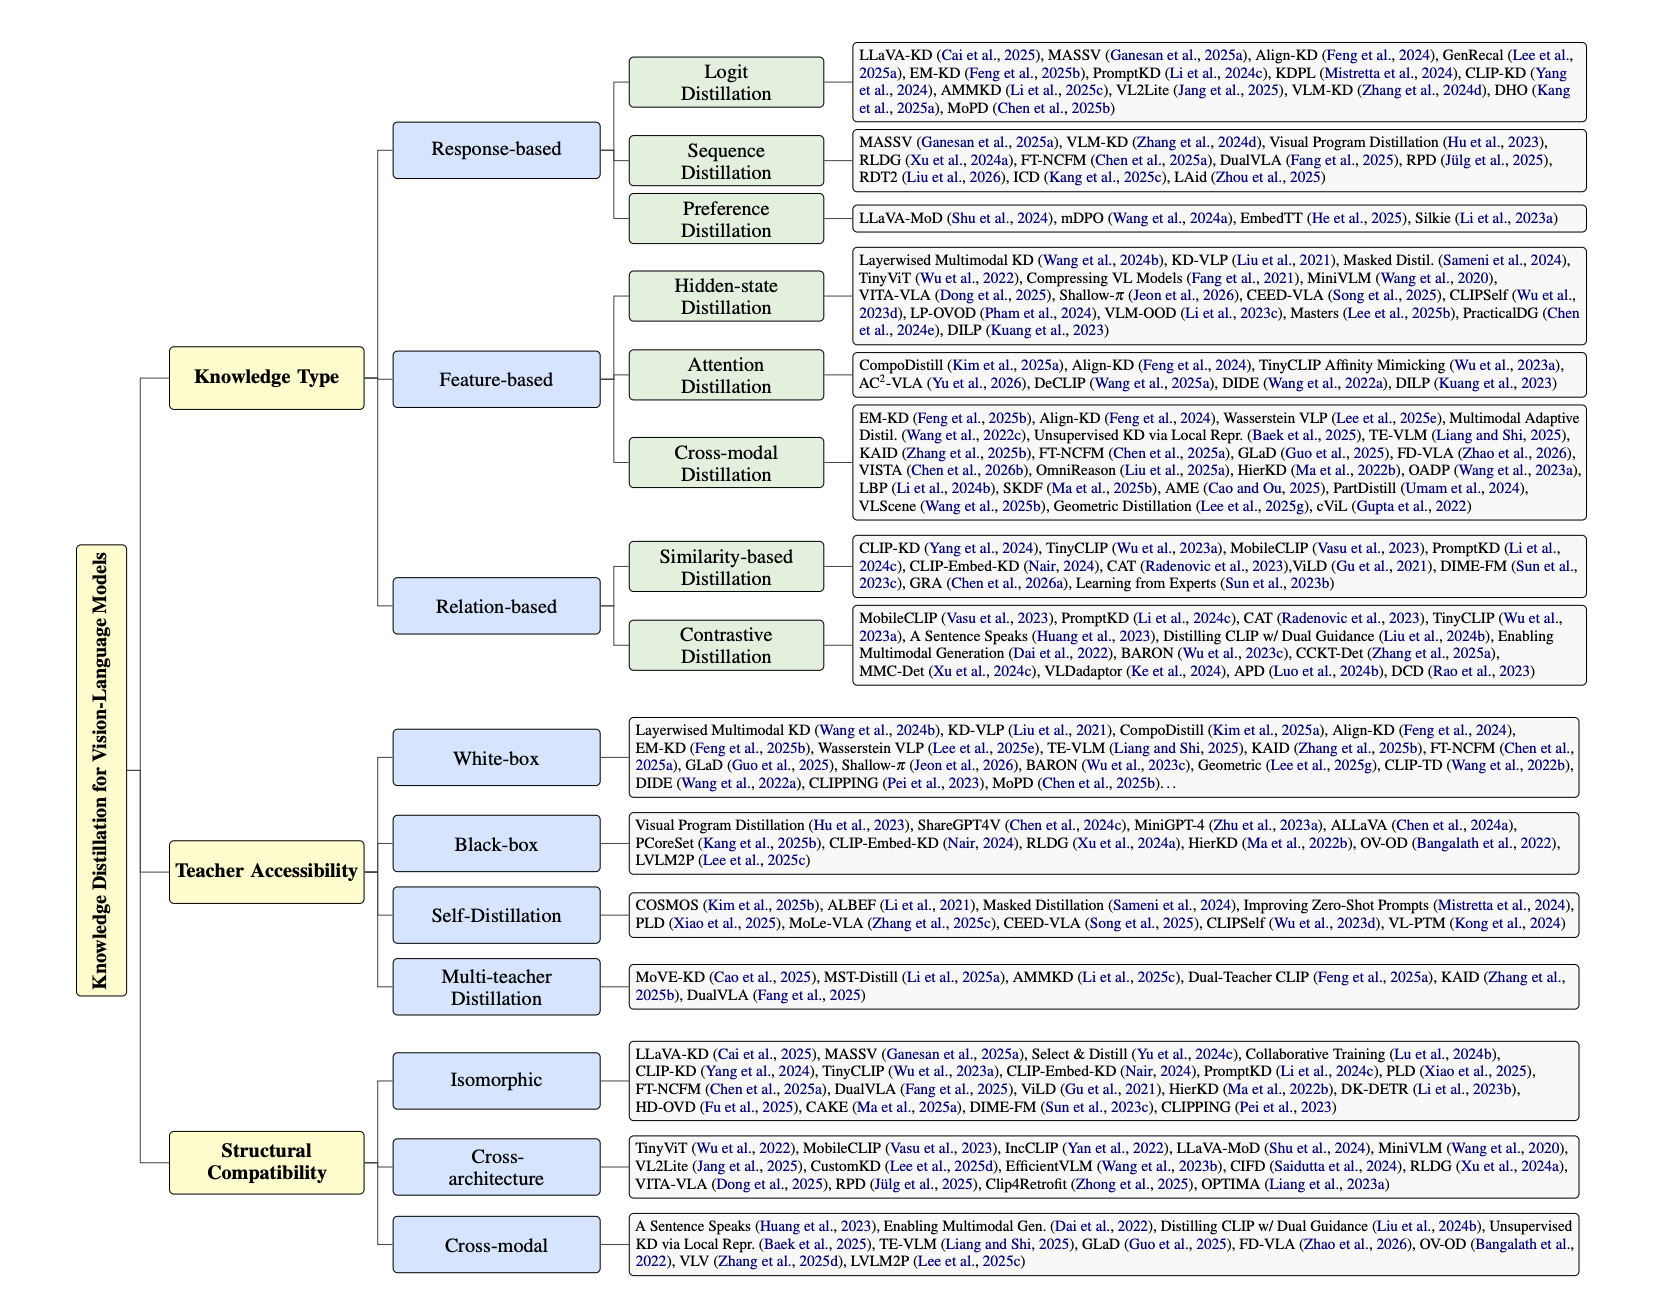
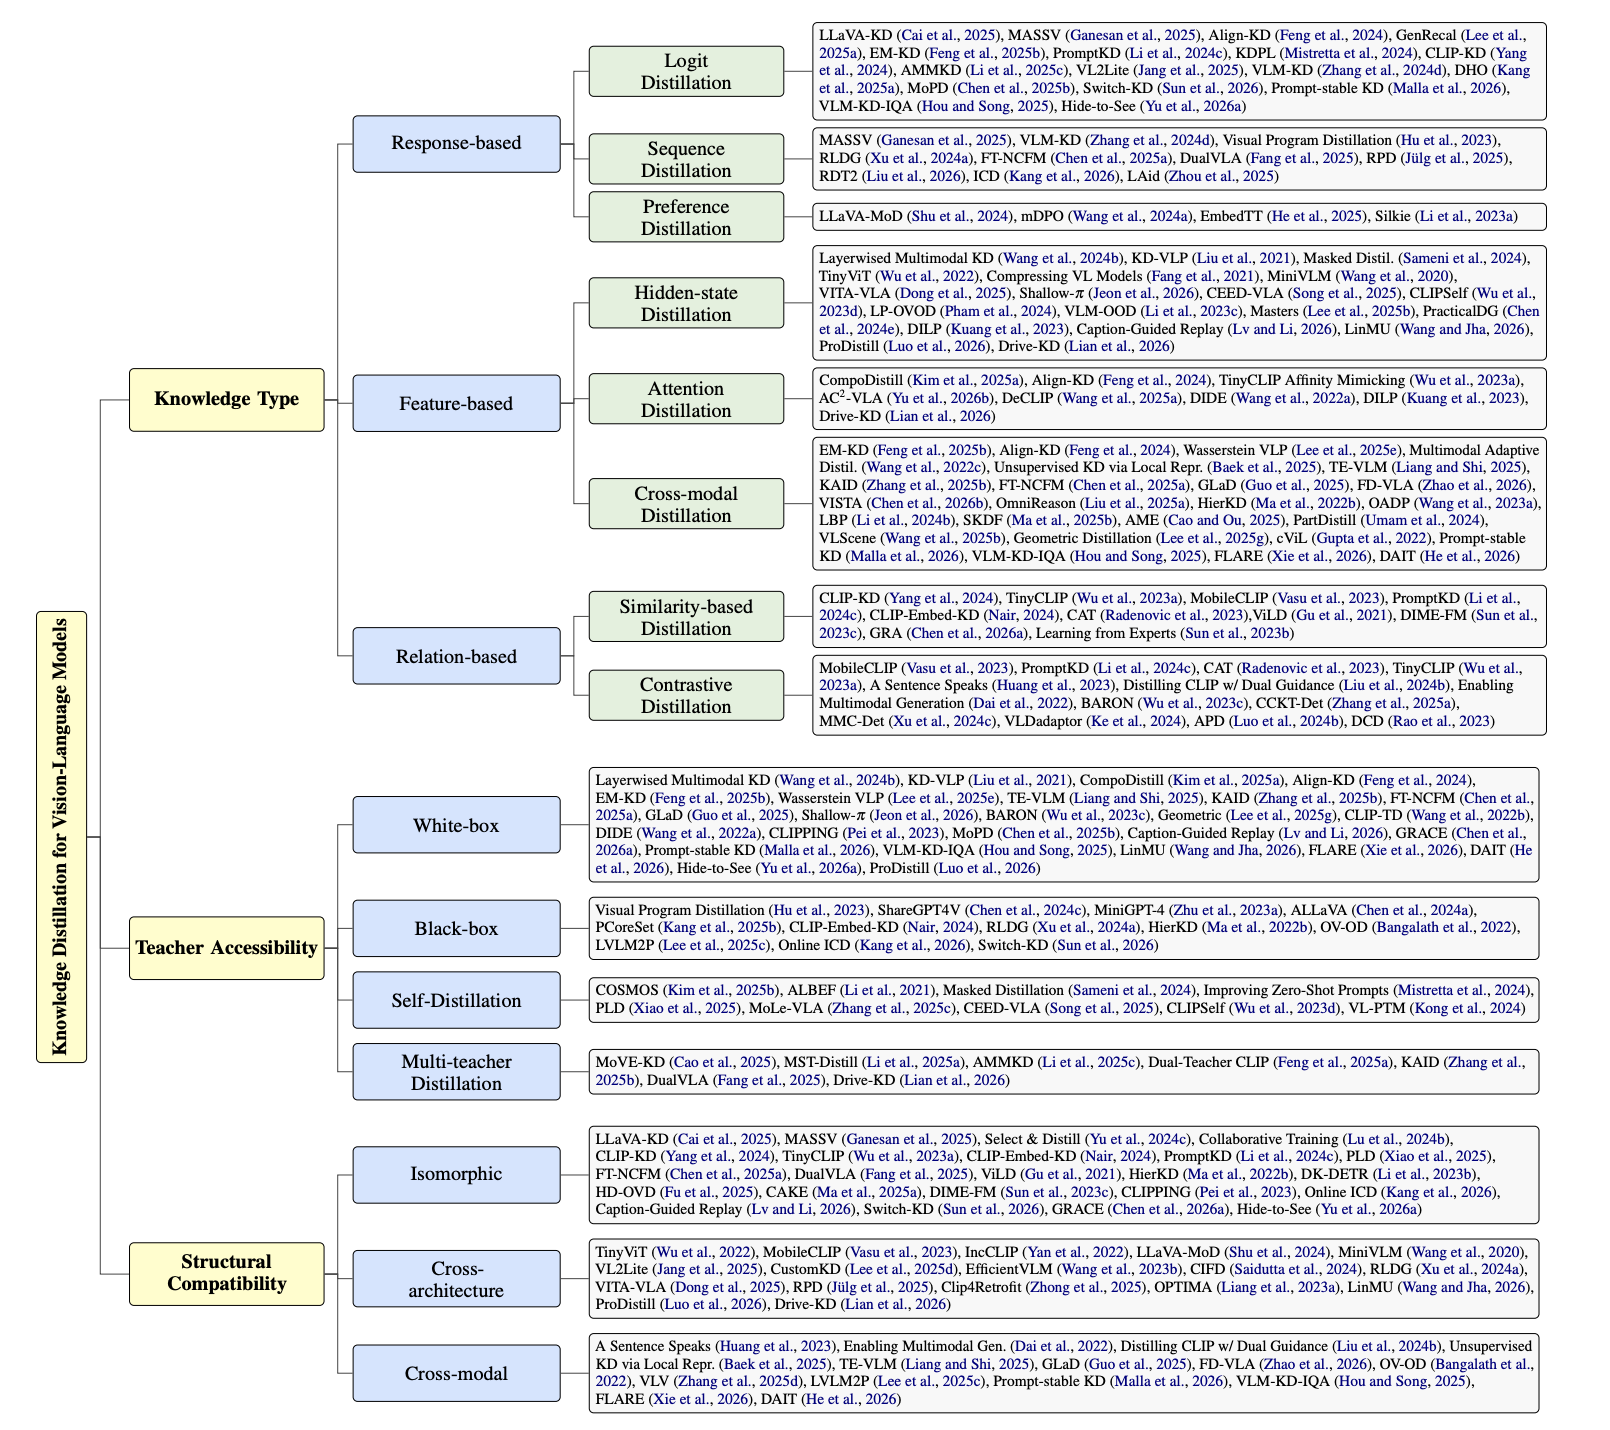
Update

diff --git a/README.md b/README.md
@@ -44,6 +44,10 @@ Below is the taxonomy summarizing the landscape of knowledge distillation resear
 * VL2Lite: Task-Specific Knowledge Distillation from Large Vision-Language Models to Lightweight Networks [[Paper]](https://openaccess.thecvf.com/content/CVPR2025/papers/Jang_VL2Lite_Task-Specific_Knowledge_Distillation_from_Large_Vision-Language_Models_to_Lightweight_CVPR_2025_paper.pdf) ![](https://img.shields.io/badge/year-2025-red)
 * VLM-KD: Knowledge Distillation from VLM for Long-Tail Visual Recognition [[Paper]](https://arxiv.org/abs/2408.16930) ![](https://img.shields.io/badge/year-2024-red)
 * VLsI: Verbalized Layers-to-Interactions from Large to Small Vision Language Models [[Paper]](https://arxiv.org/abs/2412.01822) ![](https://img.shields.io/badge/year-2025-red)
+* Distilling Knowledge from Caption-Guided Replay for VLM-Based Continual Learning [[Paper]](https://openreview.net/forum?id=HN18kuyf4o) ![](https://img.shields.io/badge/year-2026-red)
+* Prompt-stable knowledge distillation of vision-language models for efficient waste classification in material recovery facilities [[Paper]](https://www.sciencedirect.com/science/article/pii/S0921344926001096) ![](https://img.shields.io/badge/year-2026-red)
+* Visual-Language Model Knowledge Distillation Method for Image Quality Assessment [[Paper]](https://arxiv.org/abs/2507.15680) ![](https://img.shields.io/badge/year-2025-red)
+* Hide to See: Reasoning-prefix Masking for Visual-anchored Thinking in VLM Distillation [[Paper]](https://arxiv.org/abs/2605.11651) ![](https://img.shields.io/badge/year-2026-red)
 
 **Sequence Distillation**
 
@@ -56,6 +60,7 @@ Below is the taxonomy summarizing the landscape of knowledge distillation resear
 * DualVLA: Building a Generalizable Embodied Agent via Partial Decoupling of Reasoning and Action [[Paper]](https://arxiv.org/abs/2511.22134) ![](https://img.shields.io/badge/year-2025-red)
 * Refined Policy Distillation: From VLA Generalists to RL Experts [[Paper]](https://arxiv.org/abs/2503.05833) ![](https://img.shields.io/badge/year-2025-red)
 * RDT2: Exploring the Scaling Limit of UMI Data Towards Zero-Shot Cross-Embodiment Generalization [[Paper]](https://arxiv.org/abs/2602.03310) ![](https://img.shields.io/badge/year-2026-red)
+* Online In-Context Distillation for Low-Resource Vision Language Models [[Paper]](https://arxiv.org/abs/2510.18117) ![](https://img.shields.io/badge/year-2025-red)
 
 **Preference Distillation**
 
@@ -81,6 +86,9 @@ Below is the taxonomy summarizing the landscape of knowledge distillation resear
 * CEED-VLA: Consistency Vision-Language-Action Model with Early-Exit Decoding [[Paper]](https://arxiv.org/abs/2506.13725) ![](https://img.shields.io/badge/year-2025-red)
 * CLIPSelf: Vision Transformer Distills Itself for Open-Vocabulary Dense Prediction [[Paper]](https://arxiv.org/abs/2310.01403) ![](https://img.shields.io/badge/year-2023-red)
 * LP-OVOD: Open-Vocabulary Object Detection by Linear Probing [[Paper]](https://arxiv.org/abs/2310.17109) ![](https://img.shields.io/badge/year-2024-red)
+* LinMU: Multimodal Understanding Made Linear [[Paper]](https://arxiv.org/pdf/2601.01322) ![](https://img.shields.io/badge/year-2026-red)
+* DAIT: Distillation from Vision-Language Models to Lightweight Classifiers with Adaptive Intermediate Teacher Transfer [[Paper]](https://arxiv.org/pdf/2603.15166) ![](https://img.shields.io/badge/year-2026-red)
+* Prodistill: A Progressive Prompting Framework for Fine-Grained VLM Distillation [[Paper]](https://ieeexplore.ieee.org/document/11461281/) ![](https://img.shields.io/badge/year-2026-red)
 
 **Attention Distillation**
 
@@ -89,6 +97,7 @@ Below is the taxonomy summarizing the landscape of knowledge distillation resear
 * TinyCLIP: CLIP Distillation via Affinity Mimicking and Weight Inheritance [[Paper]](https://arxiv.org/abs/2309.12314) ![](https://img.shields.io/badge/year-2023-red)
 * AC^2-VLA: Action-Context-Aware Adaptive Computation in Vision-Language-Action Models for Efficient Robotic Manipulation [[Paper]](https://arxiv.org/abs/2601.19634) ![](https://img.shields.io/badge/year-2026-red)
 * DeCLIP: Decoupled Learning for Open-Vocabulary Dense Perception [[Paper]](https://arxiv.org/abs/2505.04410) ![](https://img.shields.io/badge/year-2025-red)
+* Drive-KD: Multi-Teacher Distillation for VLMs in Autonomous Driving [[Paper]](https://arxiv.org/abs/2601.21288) ![](https://img.shields.io/badge/year-2026-red)
 
 **Cross-modal Feature Distillation**
 
@@ -110,6 +119,7 @@ Below is the taxonomy summarizing the landscape of knowledge distillation resear
 * Object-Aware Distillation Pyramid for Open-Vocabulary Object Detection [[Paper]](https://arxiv.org/abs/2303.05892) ![](https://img.shields.io/badge/year-2023-red)
 * Learning Background Prompts to Discover Implicit Knowledge for Open Vocabulary Object Detection [[Paper]](https://arxiv.org/abs/2406.00510) ![](https://img.shields.io/badge/year-2024-red)
 * SKDF: A Simple Knowledge Distillation Framework for Distilling Open-Vocabulary Knowledge to Open-World Object Detector [[Paper]](https://arxiv.org/abs/2312.08653) ![](https://img.shields.io/badge/year-2024-red)
+* FLARE: Learning Future-Aware Latent Representations from Vision-Language Models for Autonomous Driving [[Paper]](https://arxiv.org/abs/2601.05611) ![](https://img.shields.io/badge/year-2026-red)
 
 
 ## Section III: Relation-based Distillation
@@ -125,6 +135,7 @@ Below is the taxonomy summarizing the landscape of knowledge distillation resear
 * CLIP-Embed-KD: Computationally Efficient Knowledge Distillation Using Embeddings as Teachers [[Paper]](https://arxiv.org/abs/2404.06170) ![](https://img.shields.io/badge/year-2024-red)
 * Filtering, Distillation, and Hard Negatives for Vision-Language Pre-Training [[Paper]](https://arxiv.org/abs/2301.02280) ![](https://img.shields.io/badge/year-2023-red)
 * Open-Vocabulary Object Detection via Vision and Language Knowledge Distillation [[Paper]](https://arxiv.org/abs/2104.13921) ![](https://img.shields.io/badge/year-2022-red)
+* Gated Relational Alignment via Confidence-based Distillation for Efficient VLMs [[Paper]](https://arxiv.org/pdf/2601.22709) ![](https://img.shields.io/badge/year-2026-red)
 
 **Contrastive Distillation**
 
@@ -169,6 +180,15 @@ Below is the taxonomy summarizing the landscape of knowledge distillation resear
 * Unsupervised Knowledge Distillation via Local Representations for Vision-Language Models [[Paper]](https://ieeexplore.ieee.org/document/11048580) ![](https://img.shields.io/badge/year-2025-red)
 * LLaVA-KD: A Framework of Distilling Multimodal Large Language Models [[Paper]](https://openaccess.thecvf.com/content/ICCV2025/papers/Cai_LLaVA-KD_A_Framework_of_Distilling_Multimodal_Large_Language_Models_ICCV_2025_paper.pdf) ![](https://img.shields.io/badge/year-2025-red)
 * GenRecal: Generation after Recalibration from Large to Small Vision-Language Models [[Paper]](https://arxiv.org/pdf/2506.15681) ![](https://img.shields.io/badge/year-2025-red)
+* Gated Relational Alignment via Confidence-based Distillation for Efficient VLMs [[Paper]](https://arxiv.org/pdf/2601.22709) ![](https://img.shields.io/badge/year-2026-red)
+* Prompt-stable knowledge distillation of vision-language models for efficient waste classification in material recovery facilities [[Paper]](https://www.sciencedirect.com/science/article/pii/S0921344926001096) ![](https://img.shields.io/badge/year-2026-red)
+* Visual-Language Model Knowledge Distillation Method for Image Quality Assessment [[Paper]](https://arxiv.org/abs/2507.15680) ![](https://img.shields.io/badge/year-2025-red)
+* LinMU: Multimodal Understanding Made Linear [[Paper]](https://arxiv.org/pdf/2601.01322) ![](https://img.shields.io/badge/year-2026-red)
+* FLARE: Learning Future-Aware Latent Representations from Vision-Language Models for Autonomous Driving [[Paper]](https://arxiv.org/abs/2601.05611) ![](https://img.shields.io/badge/year-2026-red)
+* DAIT: Distillation from Vision-Language Models to Lightweight Classifiers with Adaptive Intermediate Teacher Transfer [[Paper]](https://arxiv.org/pdf/2603.15166) ![](https://img.shields.io/badge/year-2026-red)
+* Hide to See: Reasoning-prefix Masking for Visual-anchored Thinking in VLM Distillation [[Paper]](https://arxiv.org/abs/2605.11651) ![](https://img.shields.io/badge/year-2026-red)
+* Prodistill: A Progressive Prompting Framework for Fine-Grained VLM Distillation [[Paper]](https://ieeexplore.ieee.org/document/11461281/) ![](https://img.shields.io/badge/year-2026-red)
+
 
 ## Section V: Black-box Distillation
 
@@ -183,6 +203,7 @@ Below is the taxonomy summarizing the landscape of knowledge distillation resear
 * RLDG: Robotic Generalist Policy Distillation via Reinforcement Learning [[Paper]](https://arxiv.org/abs/2412.09858) ![](https://img.shields.io/badge/year-2024-red)
 * Open-Vocabulary One-Stage Detection with Hierarchical Visual-Language Knowledge Distillation [[Paper]](https://arxiv.org/abs/2203.10593) ![](https://img.shields.io/badge/year-2022-red)
 * Bridging the Gap between Object and Image-Level Representations for Open-Vocabulary Detection [[Paper]](https://arxiv.org/abs/2207.03482) ![](https://img.shields.io/badge/year-2022-red)
+* DISTILLING KNOWLEDGE FROM CAPTION-GUIDED REPLAY FOR VLM-BASED CONTINUAL LEARNING [[Paper]](https://openreview.net/forum?id=HN18kuyf4o) ![](https://img.shields.io/badge/year-2026-red)
 
 
 ## Section VI: Self-Distillation
@@ -207,6 +228,7 @@ Below is the taxonomy summarizing the landscape of knowledge distillation resear
 * KAID: Knowledge-Aware Interactive Distillation for Vision-Language Models [[Paper]](https://www.semanticscholar.org/paper/KAID%3A-Knowledge-Aware-Interactive-Distillation-for-Zhang-Wang/30af36e012240ef4402b57230c109900f49f7102) ![](https://img.shields.io/badge/year-2025-red)
 * DualVLA: Building a Generalizable Embodied Agent via Partial Decoupling of Reasoning and Action [[Paper]](https://arxiv.org/abs/2511.22134) ![](https://img.shields.io/badge/year-2025-red)
 * DIME-FM: Distilling Multimodal and Efficient Foundation Models [[Paper]](https://arxiv.org/abs/2303.18232) ![](https://img.shields.io/badge/year-2023-red)
+* Drive-KD: Multi-Teacher Distillation for VLMs in Autonomous Driving [[Paper]](https://arxiv.org/abs/2601.21288) ![](https://img.shields.io/badge/year-2026-red)
 
 
 ## Section VIII: Structural Compatibility - Isomorphic
@@ -232,6 +254,10 @@ Below is the taxonomy summarizing the landscape of knowledge distillation resear
 * A Hierarchical Semantic Distillation Framework for Open-Vocabulary Object Detection [[Paper]](https://arxiv.org/abs/2503.10152) ![](https://img.shields.io/badge/year-2025-red)
 * CAKE: Category Aware Knowledge Extraction for Open-Vocabulary Object Detection [[Paper]](https://ojs.aaai.org/index.php/AAAI/article/view/32639)
 * GenRecal: Generation after Recalibration from Large to Small Vision-Language Models [[Paper]](https://arxiv.org/pdf/2506.15681) ![](https://img.shields.io/badge/year-2025-red)
+* DISTILLING KNOWLEDGE FROM CAPTION-GUIDED REPLAY FOR VLM-BASED CONTINUAL LEARNING [[Paper]](https://openreview.net/forum?id=HN18kuyf4o) ![](https://img.shields.io/badge/year-2026-red)
+* Gated Relational Alignment via Confidence-based Distillation for Efficient VLMs [[Paper]](https://arxiv.org/pdf/2601.22709) ![](https://img.shields.io/badge/year-2026-red)
+* Drive-KD: Multi-Teacher Distillation for VLMs in Autonomous Driving [[Paper]](https://arxiv.org/abs/2601.21288) ![](https://img.shields.io/badge/year-2026-red)
+* Hide to See: Reasoning-prefix Masking for Visual-anchored Thinking in VLM Distillation [[Paper]](https://arxiv.org/abs/2605.11651) ![](https://img.shields.io/badge/year-2026-red)
 
 
 ## Section IX: Structural Compatibility - Cross-Architecture
@@ -250,6 +276,9 @@ Below is the taxonomy summarizing the landscape of knowledge distillation resear
 * RLDG: Robotic Generalist Policy Distillation via Reinforcement Learning [[Paper]](https://arxiv.org/abs/2412.09858) ![](https://img.shields.io/badge/year-2024-red)
 * VITA-VLA: Efficiently Teaching Vision-Language Models to Act via Action Expert Distillation [[Paper]](https://arxiv.org/abs/2510.09607) ![](https://img.shields.io/badge/year-2025-red)
 * Refined Policy Distillation: From VLA Generalists to RL Experts [[Paper]](https://arxiv.org/abs/2503.05833) ![](https://img.shields.io/badge/year-2025-red)
+* Online In-Context Distillation for Low-Resource Vision Language Models [[Paper]](https://arxiv.org/abs/2510.18117) ![](https://img.shields.io/badge/year-2025-red)
+* LinMU: Multimodal Understanding Made Linear [[Paper]](https://arxiv.org/pdf/2601.01322) ![](https://img.shields.io/badge/year-2026-red)
+* Prodistill: A Progressive Prompting Framework for Fine-Grained VLM Distillation [[Paper]](https://ieeexplore.ieee.org/document/11461281/) ![](https://img.shields.io/badge/year-2026-red)
 
 
 ## Section X: Structural Compatibility - Cross-Modal
@@ -263,6 +292,10 @@ Below is the taxonomy summarizing the landscape of knowledge distillation resear
 * FD-VLA: Force-Distilled Vision-Language-Action Model for Contact-Rich Manipulation [[Paper]](https://arxiv.org/abs/2602.02142) ![](https://img.shields.io/badge/year-2026-red)
 * Bridging the Gap between Object and Image-Level Representations for Open-Vocabulary Detection [[Paper]](https://arxiv.org/abs/2207.03482) ![](https://img.shields.io/badge/year-2022-red)
 * The Modality Focusing Hypothesis: Towards Understanding Crossmodal Knowledge Distillation [[Paper]](https://arxiv.org/abs/2206.06487) ![](https://img.shields.io/badge/year-2022-red)
+* Prompt-stable knowledge distillation of vision-language models for efficient waste classification in material recovery facilities [[Paper]](https://www.sciencedirect.com/science/article/pii/S0921344926001096) ![](https://img.shields.io/badge/year-2026-red)
+* Visual-Language Model Knowledge Distillation Method for Image Quality Assessment [[Paper]](https://arxiv.org/abs/2507.15680) ![](https://img.shields.io/badge/year-2025-red)
+* FLARE: Learning Future-Aware Latent Representations from Vision-Language Models for Autonomous Driving [[Paper]](https://arxiv.org/abs/2601.05611) ![](https://img.shields.io/badge/year-2026-red)
+* DAIT: Distillation from Vision-Language Models to Lightweight Classifiers with Adaptive Intermediate Teacher Transfer [[Paper]](https://arxiv.org/pdf/2603.15166) ![](https://img.shields.io/badge/year-2026-red)
 
 ---
 
@@ -334,3 +367,4 @@ Below is the taxonomy summarizing the landscape of knowledge distillation resear
 * LP-OVOD: Open-Vocabulary Object Detection by Linear Probing [[Paper]](https://arxiv.org/abs/2310.17109) ![](https://img.shields.io/badge/year-2024-red)
 * SKDF: A Simple Knowledge Distillation Framework for Distilling Open-Vocabulary Knowledge to Open-World Object Detector [[Paper]](https://arxiv.org/abs/2312.08653) ![](https://img.shields.io/badge/year-2024-red)
 * VLDadaptor: Domain Adaptive Object Detection with Vision-Language Model Distillation [[Paper]](https://ieeexplore.ieee.org/document/10669066) ![](https://img.shields.io/badge/year-2024-red)
+* Switch-KD: Visual-Switch KD for Vision-Language Models [[Paper]](https://arxiv.org/abs/2604.14629) ![](https://img.shields.io/badge/year-2026-red)
